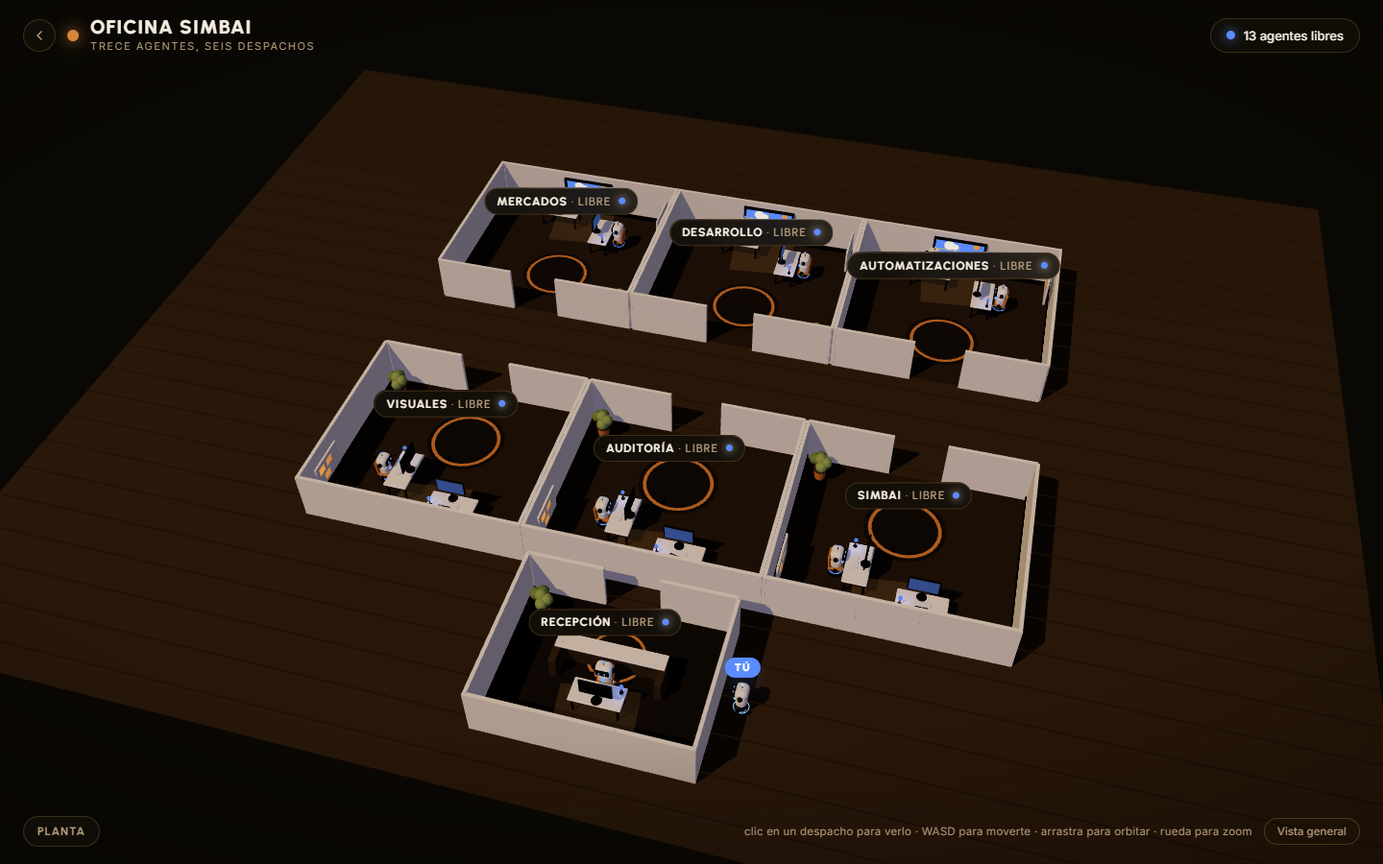
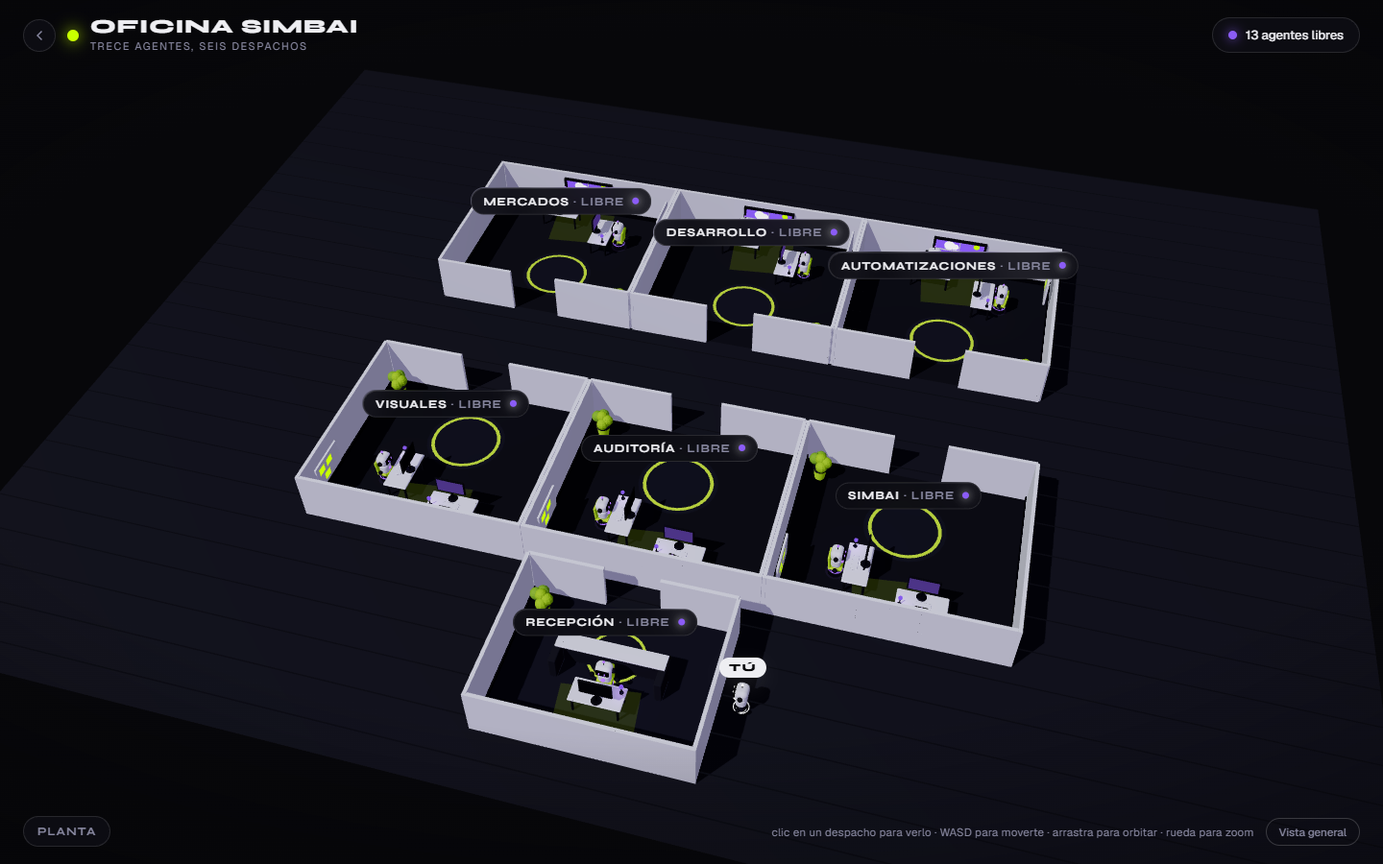
Estetica: verde lima de simbai-web-actual, no el ambar de la web vieja
La identidad de SIMBAI es blanca y verde lima, no el ambar que saque de simbai-web-v2. La referencia buena es Proyectos/simbai-web-actual, donde el lima aparece 80 veces y el violeta solo 4.

- Color: casi negro (#07070a), verde lima de marca (#c8ff00), texto claro (#eeeef2) y violeta (#8b5cf6) de acento. Estados: lima trabajando, violeta libre, gris parado.
- Escena 3D: paredes blancas, suelo y muebles en grises muy oscuros, luz neutra y fria para que el lima destaque en vez de competir con una luz de color.
- Tu personaje va en blanco: el lima es de quien trabaja y el violeta de quien esta libre.
- Tipografia: Syne para titulares y Geist para texto, las de la web actual.
- Sobre lima el texto va en oscuro, nunca claro.

diff --git a/oficina-simbai/oficina.html b/oficina-simbai/oficina.html
@@ -13,7 +13,7 @@
 <link rel="preconnect" href="https://cdn.jsdelivr.net">
 <link rel="preconnect" href="https://fonts.googleapis.com">
 <link rel="preconnect" href="https://fonts.gstatic.com" crossorigin>
-<link href="https://fonts.googleapis.com/css2?family=Urbanist:wght@600;700;800&family=Inter:wght@400;500;600&family=JetBrains+Mono:wght@400;500&display=swap" rel="stylesheet">
+<link href="https://fonts.googleapis.com/css2?family=Syne:wght@700;800&family=Geist:wght@400;500;600&display=swap" rel="stylesheet">
 <script type="importmap">
 { "imports": {
   "three": "https://cdn.jsdelivr.net/npm/three@0.186.1/build/three.module.js",
@@ -21,18 +21,18 @@
 } }
 </script>
 <style>
-/* Identidad SIMBAI, tomada de Proyectos/simbai-web-v2 (la referencia de calidad):
-   negro cálido, ámbar dorado de marca, crema para el texto y azul frío de contraste. */
+/* Identidad SIMBAI, tomada de Proyectos/simbai-web-actual: fondo casi negro,
+   verde lima como color de marca y violeta como acento secundario. */
 :root{
-  --night:#0a0804; --elev:#110e08; --elev2:#1a150d;
-  --cream:#f5ede0; --cream2:#b09878; --cream3:#86795d;
-  --accent:#d4873a; --accent2:#c4721c; --frio:#5b8cff;
-  --grad:linear-gradient(115deg,#e8973f,#c4721c);
-  --marca:#d4873a;
-  --tx:#f5ede0; --mut:#b09878; --line:rgba(212,155,80,.22); --card:rgba(17,14,8,.86);
-  --display:"Urbanist",system-ui,sans-serif; --body:"Inter",system-ui,sans-serif;
-  --mono:"JetBrains Mono",ui-monospace,SFMono-Regular,Menlo,monospace;
-  /* escala de espaciado base 4px, la misma de la web */
+  --night:#07070a; --elev:#0d0d13; --elev2:#131319; --elev3:#1a1a22;
+  --cream:#eeeef2; --cream2:#8888a0; --cream3:#7e7e98;
+  --accent:#c8ff00; --accent2:#a8d800; --accent-dim:rgba(200,255,0,.1);
+  --violeta:#8b5cf6; --violeta-lt:#c4b5fd; --frio:#8b5cf6;
+  --grad:linear-gradient(115deg,#c8ff00,#a8d800);
+  --marca:#c8ff00;
+  --tx:#eeeef2; --mut:#8888a0; --line:rgba(255,255,255,.11); --card:rgba(13,13,19,.88);
+  --display:"Syne",system-ui,sans-serif; --body:"Geist",system-ui,sans-serif;
+  --mono:ui-monospace,"SF Mono","Cascadia Mono",Menlo,Consolas,monospace;
   --s-1:.25rem; --s-2:.5rem; --s-3:.75rem; --s-4:1rem; --s-5:1.5rem; --s-6:2rem;
   --safe-t:env(safe-area-inset-top,0px); --safe-b:env(safe-area-inset-bottom,0px);
 }
@@ -41,18 +41,18 @@ html,body{height:100%;background:var(--night);color:var(--tx);font-family:var(--
 #escena{position:fixed;inset:0}
 #escena canvas{display:block;touch-action:none}
 #etiquetas{position:fixed;inset:0;pointer-events:none;z-index:1}
-.vignette{position:fixed;inset:0;pointer-events:none;z-index:2;background:radial-gradient(120% 90% at 50% 45%,transparent 45%,rgba(6,4,2,.8) 100%)}
+.vignette{position:fixed;inset:0;pointer-events:none;z-index:2;background:radial-gradient(120% 90% at 50% 45%,transparent 45%,rgba(4,4,6,.82) 100%)}
 .card{background:var(--card);backdrop-filter:blur(14px);-webkit-backdrop-filter:blur(14px);border:1px solid var(--line)}
 
 /* rótulo sobre cada despacho: solo el nombre, el estado va en el color del robot */
 .placa{pointer-events:auto;cursor:pointer;white-space:nowrap;font-family:var(--display);font-weight:700;font-size:12px;letter-spacing:.08em;text-transform:uppercase;color:var(--cream);padding:6px 12px;border-radius:999px;transition:border-color .16s}
-.placa:hover,.placa.on{border-color:rgba(212,155,80,.5)}
+.placa:hover,.placa.on{border-color:rgba(255,255,255,.28)}
 .placa b{font-weight:700}
 .placa span{color:var(--mut);font-weight:600}
 .placa i{display:inline-block;width:7px;height:7px;border-radius:50%;background:var(--frio);margin-left:8px;vertical-align:1px;box-shadow:0 0 10px currentColor}
 .placa.activa i{background:var(--marca);box-shadow:0 0 10px var(--marca)}
 .placa.parada i{background:var(--cream3);box-shadow:0 0 10px var(--cream3)}
-.yo{pointer-events:none;font-family:var(--display);font-weight:800;font-size:11px;letter-spacing:.12em;text-transform:uppercase;color:#fff;background:var(--frio);padding:4px 10px;border-radius:999px;box-shadow:0 8px 20px -8px var(--frio)}
+.yo{pointer-events:none;font-family:var(--display);font-weight:800;font-size:11px;letter-spacing:.12em;text-transform:uppercase;color:var(--night);background:var(--cream);padding:4px 10px;border-radius:999px;box-shadow:0 8px 24px -8px rgba(238,238,242,.5)}
 .bocadillo{pointer-events:none;max-width:230px;padding:9px 12px;border-radius:14px;border-bottom-left-radius:4px;background:var(--cream);color:var(--night);font:400 12.5px/1.4 var(--body);white-space:normal;box-shadow:0 12px 30px -12px rgba(0,0,0,.6)}
 
 header{position:fixed;top:calc(var(--safe-t) + 18px);left:24px;right:24px;z-index:5;display:flex;align-items:center;justify-content:space-between;gap:16px;pointer-events:none}
@@ -75,8 +75,8 @@ footer{position:fixed;left:24px;right:24px;bottom:calc(var(--safe-b) + 18px);z-i
 .hint{display:flex;align-items:center;gap:12px;font-size:11.5px;color:var(--mut);letter-spacing:.02em;pointer-events:auto}
 .hint span{transition:opacity .6s}
 .hint.off span{opacity:0}
-.hint button{background:none;border:1px solid rgba(212,155,80,.28);color:var(--cream2);border-radius:999px;padding:6px 13px;font:500 11.5px var(--body);cursor:pointer;white-space:nowrap;flex:none}
-.hint button:hover{color:#1a1206;background:var(--grad);border-color:transparent}
+.hint button{background:none;border:1px solid rgba(255,255,255,.18);color:var(--cream2);border-radius:999px;padding:6px 13px;font:500 11.5px var(--body);cursor:pointer;white-space:nowrap;flex:none}
+.hint button:hover{color:#07070a;background:var(--grad);border-color:transparent}
 
 aside{
   position:fixed; top:calc(var(--safe-t) + 84px); right:24px; width:min(330px,calc(100vw - 48px)); z-index:6;
@@ -87,9 +87,9 @@ aside{
 aside.on{transform:none;opacity:1;pointer-events:auto}
 aside .top{display:flex;align-items:center;gap:10px}
 aside .nm{font-family:var(--display);font-weight:800;font-size:19px;letter-spacing:.02em;line-height:1}
-aside .mod{font:500 10px var(--body);letter-spacing:.06em;text-transform:uppercase;color:var(--mut);background:rgba(212,155,80,.10);padding:3px 8px;border-radius:6px}
+aside .mod{font:500 10px var(--body);letter-spacing:.06em;text-transform:uppercase;color:var(--mut);background:rgba(255,255,255,.055);padding:3px 8px;border-radius:6px}
 aside .cerrar{margin-left:auto;background:none;border:0;color:var(--mut);cursor:pointer;width:28px;height:28px;display:grid;place-items:center;border-radius:50%}
-aside .cerrar:hover{background:rgba(212,155,80,.12);color:var(--cream)}
+aside .cerrar:hover{background:rgba(255,255,255,.08);color:var(--cream)}
 aside .cerrar svg{width:14px;height:14px}
 /* una fila por agente del despacho */
 .puesto{display:flex;gap:10px;padding:12px 0;border-bottom:1px solid var(--line)}
@@ -107,23 +107,23 @@ aside .pie{font:11px/1.7 var(--mono);color:var(--mut);margin-top:12px;padding-to
 .chat .hilo:empty{display:none}
 .chat .m{max-width:88%;padding:9px 12px;border-radius:14px;font-size:12.5px;line-height:1.45;white-space:pre-wrap;word-break:break-word}
 .chat .m.mio{align-self:flex-end;background:var(--accent);color:var(--night);border-bottom-right-radius:5px}
-.chat .m.el{align-self:flex-start;background:rgba(212,155,80,.12);border-bottom-left-radius:5px}
+.chat .m.el{align-self:flex-start;background:rgba(255,255,255,.08);border-bottom-left-radius:5px}
 .chat .m.err{align-self:stretch;background:rgba(255,107,74,.16);border:1px solid rgba(255,107,74,.4);font-size:12px}
 .chat .meta{align-self:flex-start;font:10.5px var(--mono);color:var(--mut);margin-top:-4px}
 .chat .dots::after{content:'…';display:inline-block;width:1.2em;text-align:left;animation:dots 1.2s steps(4,end) infinite}
 @keyframes dots{0%{content:''}25%{content:'.'}50%{content:'..'}75%{content:'...'}}
 .chat .motores{display:flex;gap:6px;margin-top:10px}
-.chat .motores button{flex:1;background:none;border:1px solid rgba(212,155,80,.22);color:var(--mut);border-radius:999px;padding:6px 10px;font:500 11px var(--body);cursor:pointer;white-space:nowrap}
-.chat .motores button.on{background:var(--grad);color:#1a1206;border-color:transparent;font-weight:600}
+.chat .motores button{flex:1;background:none;border:1px solid rgba(255,255,255,.11);color:var(--mut);border-radius:999px;padding:6px 10px;font:500 11px var(--body);cursor:pointer;white-space:nowrap}
+.chat .motores button.on{background:var(--grad);color:#07070a;border-color:transparent;font-weight:600}
 .chat form{display:flex;gap:8px;margin-top:8px;align-items:flex-end}
-.chat textarea{flex:1;resize:none;background:rgba(212,155,80,.10);border:1px solid var(--line);border-radius:14px;color:var(--cream);font:400 13px/1.4 var(--body);padding:9px 12px;outline:none;min-height:38px;max-height:96px}
-.chat textarea:focus{border-color:rgba(212,155,80,.45)}
+.chat textarea{flex:1;resize:none;background:rgba(255,255,255,.055);border:1px solid var(--line);border-radius:14px;color:var(--cream);font:400 13px/1.4 var(--body);padding:9px 12px;outline:none;min-height:38px;max-height:96px}
+.chat textarea:focus{border-color:rgba(255,255,255,.25)}
 .chat textarea::placeholder{color:var(--mut)}
 .chat form button{width:38px;height:38px;border-radius:50%;border:0;background:var(--grad);color:var(--night);cursor:pointer;flex:none;display:grid;place-items:center}
 .chat form button svg{width:16px;height:16px}
 .chat form button:disabled,.chat textarea:disabled{opacity:.5;cursor:default}
 .chat .nota{font-size:10.5px;color:var(--mut);margin-top:8px;line-height:1.5}
-.chat .nota code{display:block;margin:6px 0;padding:7px 9px;border-radius:8px;background:rgba(212,155,80,.10);color:var(--cream);font:10.5px/1.5 var(--mono);user-select:all;word-break:break-all}
+.chat .nota code{display:block;margin:6px 0;padding:7px 9px;border-radius:8px;background:rgba(255,255,255,.055);color:var(--cream);font:10.5px/1.5 var(--mono);user-select:all;word-break:break-all}
 
 .msg{position:fixed;inset:0;z-index:4;display:grid;place-items:center;text-align:center;color:var(--mut);font-size:13.5px;padding:20px;background:var(--night)}
 .msg b{display:block;font-family:var(--display);color:var(--cream);font-size:18px;margin-bottom:6px}
@@ -194,7 +194,7 @@ const CFG = {
   embed: flag('embed', false),
   name: Q.get('name') || 'OFICINA SIMBAI',
   tagline: Q.get('tagline') || 'trece agentes, seis despachos',
-  accent: /^#[0-9a-f]{3,8}$/i.test(Q.get('accent') || '') ? Q.get('accent') : '#d4873a',
+  accent: /^#[0-9a-f]{3,8}$/i.test(Q.get('accent') || '') ? Q.get('accent') : '#c8ff00',
   labels: flag('labels', true),
   // el panel de estados vive aquí por defecto; ?estado= lo cambia y ?estado= vacío lo apaga
   estado: Q.has('estado') ? Q.get('estado') : 'http://localhost:8080/estado.json',
@@ -206,18 +206,18 @@ $('#marca').textContent = CFG.name;
 $('#lema').textContent = CFG.tagline;
 
 /* ── paleta y plantilla de la oficina ───────────────── */
-// Paleta SIMBAI (Proyectos/simbai-web-v2): negro cálido, ámbar dorado y crema.
+// Paleta SIMBAI (Proyectos/simbai-web-actual): casi negro, lima de marca y violeta.
 const PAL = {
-  night:0x0a0804, navy:0x1a150d, navy2:0x241d12, cream:0xf5ede0,
-  coral:0xd4873a, mint:0xd4873a, sky:0x5b8cff, amber:0xe8973f, plum:0x86795d,
-  wood:0x4a3a22, wood2:0x3a2c1a, leaf:0x7d8f4a, leaf2:0x97a95d, white:0xf0e9dd,
+  night:0x07070a, navy:0x1a1a22, navy2:0x232330, cream:0xeeeef2,
+  coral:0xc8ff00, mint:0xc8ff00, sky:0x8b5cf6, amber:0xc8ff00, plum:0x555568,
+  wood:0x26262f, wood2:0x1c1c24, leaf:0x8fbf2a, leaf2:0xa8d800, white:0xeeeef2,
 };
 const MARCA = new THREE.Color(CFG.accent).getHex();
-// trabajando = ámbar de marca; libre = azul frío; parado = crema apagada
+// trabajando = lima de marca; libre = violeta; parado = gris apagado
 const SIT = {
   trabajando: { hex:MARCA, css:CFG.accent, factor:1, etiqueta:'Trabajando' },
-  libre:      { hex:PAL.sky, css:'#5b8cff', factor:.4, etiqueta:'Libre' },
-  parado:     { hex:PAL.plum, css:'#86795d', factor:.45, etiqueta:'Parado' },
+  libre:      { hex:PAL.sky, css:'#8b5cf6', factor:.45, etiqueta:'Libre' },
+  parado:     { hex:PAL.plum, css:'#7e7e98', factor:.4, etiqueta:'Parado' },
 };
 const situacion = s => SIT[s] ? s : 'libre';
 
@@ -700,10 +700,10 @@ function construye(){
   }
   scene.fog = new THREE.Fog(PAL.night, 55, 150); // en móvil la cámara se aleja: con 80 la planta se apagaba
 
-  // luz de tarde: el ámbar de marca domina y el azul frío solo perfila
-  scene.add(new THREE.HemisphereLight(0x8aa4e0, PAL.wood, 0.55));
-  scene.add(new THREE.AmbientLight(0xffe6c4, 0.42));
-  const sol = new THREE.DirectionalLight(0xffd9a0, 1.9);
+  // luz neutra y fría: el lima tiene que destacar, no competir con una luz de color
+  scene.add(new THREE.HemisphereLight(0xb9c6e8, 0x2a2a36, 0.7));
+  scene.add(new THREE.AmbientLight(0xffffff, 0.5));
+  const sol = new THREE.DirectionalLight(0xf2f4ff, 2.0);
   sol.position.set(-7, 14, 9); sol.castShadow = true;
   sol.shadow.mapSize.set(2048, 2048);
   Object.assign(sol.shadow.camera, { left:-largo / 2 - 10, right:largo / 2 + 6, top:prof / 2, bottom:-prof / 2, near:1, far:70 });
@@ -715,8 +715,8 @@ function construye(){
 
 /* ── tu personaje ───────────────────────────────────── */
 const yo = new THREE.Group();
-// tú vas en azul frío: el ámbar es de los agentes y así no te confundes con uno
-const yoRobot = robot(PAL.sky);
+// tú vas en blanco: el lima es de quien trabaja y el violeta de quien está libre
+const yoRobot = robot(PAL.cream);
 yo.add(yoRobot);
 {
   const div = document.createElement('div'); div.className = 'yo'; div.textContent = 'Tú';

diff --git a/packages/web/public/oficina.html b/packages/web/public/oficina.html
@@ -13,7 +13,7 @@
 <link rel="preconnect" href="https://cdn.jsdelivr.net">
 <link rel="preconnect" href="https://fonts.googleapis.com">
 <link rel="preconnect" href="https://fonts.gstatic.com" crossorigin>
-<link href="https://fonts.googleapis.com/css2?family=Urbanist:wght@600;700;800&family=Inter:wght@400;500;600&family=JetBrains+Mono:wght@400;500&display=swap" rel="stylesheet">
+<link href="https://fonts.googleapis.com/css2?family=Syne:wght@700;800&family=Geist:wght@400;500;600&display=swap" rel="stylesheet">
 <script type="importmap">
 { "imports": {
   "three": "https://cdn.jsdelivr.net/npm/three@0.186.1/build/three.module.js",
@@ -21,18 +21,18 @@
 } }
 </script>
 <style>
-/* Identidad SIMBAI, tomada de Proyectos/simbai-web-v2 (la referencia de calidad):
-   negro cálido, ámbar dorado de marca, crema para el texto y azul frío de contraste. */
+/* Identidad SIMBAI, tomada de Proyectos/simbai-web-actual: fondo casi negro,
+   verde lima como color de marca y violeta como acento secundario. */
 :root{
-  --night:#0a0804; --elev:#110e08; --elev2:#1a150d;
-  --cream:#f5ede0; --cream2:#b09878; --cream3:#86795d;
-  --accent:#d4873a; --accent2:#c4721c; --frio:#5b8cff;
-  --grad:linear-gradient(115deg,#e8973f,#c4721c);
-  --marca:#d4873a;
-  --tx:#f5ede0; --mut:#b09878; --line:rgba(212,155,80,.22); --card:rgba(17,14,8,.86);
-  --display:"Urbanist",system-ui,sans-serif; --body:"Inter",system-ui,sans-serif;
-  --mono:"JetBrains Mono",ui-monospace,SFMono-Regular,Menlo,monospace;
-  /* escala de espaciado base 4px, la misma de la web */
+  --night:#07070a; --elev:#0d0d13; --elev2:#131319; --elev3:#1a1a22;
+  --cream:#eeeef2; --cream2:#8888a0; --cream3:#7e7e98;
+  --accent:#c8ff00; --accent2:#a8d800; --accent-dim:rgba(200,255,0,.1);
+  --violeta:#8b5cf6; --violeta-lt:#c4b5fd; --frio:#8b5cf6;
+  --grad:linear-gradient(115deg,#c8ff00,#a8d800);
+  --marca:#c8ff00;
+  --tx:#eeeef2; --mut:#8888a0; --line:rgba(255,255,255,.11); --card:rgba(13,13,19,.88);
+  --display:"Syne",system-ui,sans-serif; --body:"Geist",system-ui,sans-serif;
+  --mono:ui-monospace,"SF Mono","Cascadia Mono",Menlo,Consolas,monospace;
   --s-1:.25rem; --s-2:.5rem; --s-3:.75rem; --s-4:1rem; --s-5:1.5rem; --s-6:2rem;
   --safe-t:env(safe-area-inset-top,0px); --safe-b:env(safe-area-inset-bottom,0px);
 }
@@ -41,18 +41,18 @@ html,body{height:100%;background:var(--night);color:var(--tx);font-family:var(--
 #escena{position:fixed;inset:0}
 #escena canvas{display:block;touch-action:none}
 #etiquetas{position:fixed;inset:0;pointer-events:none;z-index:1}
-.vignette{position:fixed;inset:0;pointer-events:none;z-index:2;background:radial-gradient(120% 90% at 50% 45%,transparent 45%,rgba(6,4,2,.8) 100%)}
+.vignette{position:fixed;inset:0;pointer-events:none;z-index:2;background:radial-gradient(120% 90% at 50% 45%,transparent 45%,rgba(4,4,6,.82) 100%)}
 .card{background:var(--card);backdrop-filter:blur(14px);-webkit-backdrop-filter:blur(14px);border:1px solid var(--line)}
 
 /* rótulo sobre cada despacho: solo el nombre, el estado va en el color del robot */
 .placa{pointer-events:auto;cursor:pointer;white-space:nowrap;font-family:var(--display);font-weight:700;font-size:12px;letter-spacing:.08em;text-transform:uppercase;color:var(--cream);padding:6px 12px;border-radius:999px;transition:border-color .16s}
-.placa:hover,.placa.on{border-color:rgba(212,155,80,.5)}
+.placa:hover,.placa.on{border-color:rgba(255,255,255,.28)}
 .placa b{font-weight:700}
 .placa span{color:var(--mut);font-weight:600}
 .placa i{display:inline-block;width:7px;height:7px;border-radius:50%;background:var(--frio);margin-left:8px;vertical-align:1px;box-shadow:0 0 10px currentColor}
 .placa.activa i{background:var(--marca);box-shadow:0 0 10px var(--marca)}
 .placa.parada i{background:var(--cream3);box-shadow:0 0 10px var(--cream3)}
-.yo{pointer-events:none;font-family:var(--display);font-weight:800;font-size:11px;letter-spacing:.12em;text-transform:uppercase;color:#fff;background:var(--frio);padding:4px 10px;border-radius:999px;box-shadow:0 8px 20px -8px var(--frio)}
+.yo{pointer-events:none;font-family:var(--display);font-weight:800;font-size:11px;letter-spacing:.12em;text-transform:uppercase;color:var(--night);background:var(--cream);padding:4px 10px;border-radius:999px;box-shadow:0 8px 24px -8px rgba(238,238,242,.5)}
 .bocadillo{pointer-events:none;max-width:230px;padding:9px 12px;border-radius:14px;border-bottom-left-radius:4px;background:var(--cream);color:var(--night);font:400 12.5px/1.4 var(--body);white-space:normal;box-shadow:0 12px 30px -12px rgba(0,0,0,.6)}
 
 header{position:fixed;top:calc(var(--safe-t) + 18px);left:24px;right:24px;z-index:5;display:flex;align-items:center;justify-content:space-between;gap:16px;pointer-events:none}
@@ -75,8 +75,8 @@ footer{position:fixed;left:24px;right:24px;bottom:calc(var(--safe-b) + 18px);z-i
 .hint{display:flex;align-items:center;gap:12px;font-size:11.5px;color:var(--mut);letter-spacing:.02em;pointer-events:auto}
 .hint span{transition:opacity .6s}
 .hint.off span{opacity:0}
-.hint button{background:none;border:1px solid rgba(212,155,80,.28);color:var(--cream2);border-radius:999px;padding:6px 13px;font:500 11.5px var(--body);cursor:pointer;white-space:nowrap;flex:none}
-.hint button:hover{color:#1a1206;background:var(--grad);border-color:transparent}
+.hint button{background:none;border:1px solid rgba(255,255,255,.18);color:var(--cream2);border-radius:999px;padding:6px 13px;font:500 11.5px var(--body);cursor:pointer;white-space:nowrap;flex:none}
+.hint button:hover{color:#07070a;background:var(--grad);border-color:transparent}
 
 aside{
   position:fixed; top:calc(var(--safe-t) + 84px); right:24px; width:min(330px,calc(100vw - 48px)); z-index:6;
@@ -87,9 +87,9 @@ aside{
 aside.on{transform:none;opacity:1;pointer-events:auto}
 aside .top{display:flex;align-items:center;gap:10px}
 aside .nm{font-family:var(--display);font-weight:800;font-size:19px;letter-spacing:.02em;line-height:1}
-aside .mod{font:500 10px var(--body);letter-spacing:.06em;text-transform:uppercase;color:var(--mut);background:rgba(212,155,80,.10);padding:3px 8px;border-radius:6px}
+aside .mod{font:500 10px var(--body);letter-spacing:.06em;text-transform:uppercase;color:var(--mut);background:rgba(255,255,255,.055);padding:3px 8px;border-radius:6px}
 aside .cerrar{margin-left:auto;background:none;border:0;color:var(--mut);cursor:pointer;width:28px;height:28px;display:grid;place-items:center;border-radius:50%}
-aside .cerrar:hover{background:rgba(212,155,80,.12);color:var(--cream)}
+aside .cerrar:hover{background:rgba(255,255,255,.08);color:var(--cream)}
 aside .cerrar svg{width:14px;height:14px}
 /* una fila por agente del despacho */
 .puesto{display:flex;gap:10px;padding:12px 0;border-bottom:1px solid var(--line)}
@@ -107,23 +107,23 @@ aside .pie{font:11px/1.7 var(--mono);color:var(--mut);margin-top:12px;padding-to
 .chat .hilo:empty{display:none}
 .chat .m{max-width:88%;padding:9px 12px;border-radius:14px;font-size:12.5px;line-height:1.45;white-space:pre-wrap;word-break:break-word}
 .chat .m.mio{align-self:flex-end;background:var(--accent);color:var(--night);border-bottom-right-radius:5px}
-.chat .m.el{align-self:flex-start;background:rgba(212,155,80,.12);border-bottom-left-radius:5px}
+.chat .m.el{align-self:flex-start;background:rgba(255,255,255,.08);border-bottom-left-radius:5px}
 .chat .m.err{align-self:stretch;background:rgba(255,107,74,.16);border:1px solid rgba(255,107,74,.4);font-size:12px}
 .chat .meta{align-self:flex-start;font:10.5px var(--mono);color:var(--mut);margin-top:-4px}
 .chat .dots::after{content:'…';display:inline-block;width:1.2em;text-align:left;animation:dots 1.2s steps(4,end) infinite}
 @keyframes dots{0%{content:''}25%{content:'.'}50%{content:'..'}75%{content:'...'}}
 .chat .motores{display:flex;gap:6px;margin-top:10px}
-.chat .motores button{flex:1;background:none;border:1px solid rgba(212,155,80,.22);color:var(--mut);border-radius:999px;padding:6px 10px;font:500 11px var(--body);cursor:pointer;white-space:nowrap}
-.chat .motores button.on{background:var(--grad);color:#1a1206;border-color:transparent;font-weight:600}
+.chat .motores button{flex:1;background:none;border:1px solid rgba(255,255,255,.11);color:var(--mut);border-radius:999px;padding:6px 10px;font:500 11px var(--body);cursor:pointer;white-space:nowrap}
+.chat .motores button.on{background:var(--grad);color:#07070a;border-color:transparent;font-weight:600}
 .chat form{display:flex;gap:8px;margin-top:8px;align-items:flex-end}
-.chat textarea{flex:1;resize:none;background:rgba(212,155,80,.10);border:1px solid var(--line);border-radius:14px;color:var(--cream);font:400 13px/1.4 var(--body);padding:9px 12px;outline:none;min-height:38px;max-height:96px}
-.chat textarea:focus{border-color:rgba(212,155,80,.45)}
+.chat textarea{flex:1;resize:none;background:rgba(255,255,255,.055);border:1px solid var(--line);border-radius:14px;color:var(--cream);font:400 13px/1.4 var(--body);padding:9px 12px;outline:none;min-height:38px;max-height:96px}
+.chat textarea:focus{border-color:rgba(255,255,255,.25)}
 .chat textarea::placeholder{color:var(--mut)}
 .chat form button{width:38px;height:38px;border-radius:50%;border:0;background:var(--grad);color:var(--night);cursor:pointer;flex:none;display:grid;place-items:center}
 .chat form button svg{width:16px;height:16px}
 .chat form button:disabled,.chat textarea:disabled{opacity:.5;cursor:default}
 .chat .nota{font-size:10.5px;color:var(--mut);margin-top:8px;line-height:1.5}
-.chat .nota code{display:block;margin:6px 0;padding:7px 9px;border-radius:8px;background:rgba(212,155,80,.10);color:var(--cream);font:10.5px/1.5 var(--mono);user-select:all;word-break:break-all}
+.chat .nota code{display:block;margin:6px 0;padding:7px 9px;border-radius:8px;background:rgba(255,255,255,.055);color:var(--cream);font:10.5px/1.5 var(--mono);user-select:all;word-break:break-all}
 
 .msg{position:fixed;inset:0;z-index:4;display:grid;place-items:center;text-align:center;color:var(--mut);font-size:13.5px;padding:20px;background:var(--night)}
 .msg b{display:block;font-family:var(--display);color:var(--cream);font-size:18px;margin-bottom:6px}
@@ -194,7 +194,7 @@ const CFG = {
   embed: flag('embed', false),
   name: Q.get('name') || 'OFICINA SIMBAI',
   tagline: Q.get('tagline') || 'trece agentes, seis despachos',
-  accent: /^#[0-9a-f]{3,8}$/i.test(Q.get('accent') || '') ? Q.get('accent') : '#d4873a',
+  accent: /^#[0-9a-f]{3,8}$/i.test(Q.get('accent') || '') ? Q.get('accent') : '#c8ff00',
   labels: flag('labels', true),
   // el panel de estados vive aquí por defecto; ?estado= lo cambia y ?estado= vacío lo apaga
   estado: Q.has('estado') ? Q.get('estado') : 'http://localhost:8080/estado.json',
@@ -206,18 +206,18 @@ $('#marca').textContent = CFG.name;
 $('#lema').textContent = CFG.tagline;
 
 /* ── paleta y plantilla de la oficina ───────────────── */
-// Paleta SIMBAI (Proyectos/simbai-web-v2): negro cálido, ámbar dorado y crema.
+// Paleta SIMBAI (Proyectos/simbai-web-actual): casi negro, lima de marca y violeta.
 const PAL = {
-  night:0x0a0804, navy:0x1a150d, navy2:0x241d12, cream:0xf5ede0,
-  coral:0xd4873a, mint:0xd4873a, sky:0x5b8cff, amber:0xe8973f, plum:0x86795d,
-  wood:0x4a3a22, wood2:0x3a2c1a, leaf:0x7d8f4a, leaf2:0x97a95d, white:0xf0e9dd,
+  night:0x07070a, navy:0x1a1a22, navy2:0x232330, cream:0xeeeef2,
+  coral:0xc8ff00, mint:0xc8ff00, sky:0x8b5cf6, amber:0xc8ff00, plum:0x555568,
+  wood:0x26262f, wood2:0x1c1c24, leaf:0x8fbf2a, leaf2:0xa8d800, white:0xeeeef2,
 };
 const MARCA = new THREE.Color(CFG.accent).getHex();
-// trabajando = ámbar de marca; libre = azul frío; parado = crema apagada
+// trabajando = lima de marca; libre = violeta; parado = gris apagado
 const SIT = {
   trabajando: { hex:MARCA, css:CFG.accent, factor:1, etiqueta:'Trabajando' },
-  libre:      { hex:PAL.sky, css:'#5b8cff', factor:.4, etiqueta:'Libre' },
-  parado:     { hex:PAL.plum, css:'#86795d', factor:.45, etiqueta:'Parado' },
+  libre:      { hex:PAL.sky, css:'#8b5cf6', factor:.45, etiqueta:'Libre' },
+  parado:     { hex:PAL.plum, css:'#7e7e98', factor:.4, etiqueta:'Parado' },
 };
 const situacion = s => SIT[s] ? s : 'libre';
 
@@ -700,10 +700,10 @@ function construye(){
   }
   scene.fog = new THREE.Fog(PAL.night, 55, 150); // en móvil la cámara se aleja: con 80 la planta se apagaba
 
-  // luz de tarde: el ámbar de marca domina y el azul frío solo perfila
-  scene.add(new THREE.HemisphereLight(0x8aa4e0, PAL.wood, 0.55));
-  scene.add(new THREE.AmbientLight(0xffe6c4, 0.42));
-  const sol = new THREE.DirectionalLight(0xffd9a0, 1.9);
+  // luz neutra y fría: el lima tiene que destacar, no competir con una luz de color
+  scene.add(new THREE.HemisphereLight(0xb9c6e8, 0x2a2a36, 0.7));
+  scene.add(new THREE.AmbientLight(0xffffff, 0.5));
+  const sol = new THREE.DirectionalLight(0xf2f4ff, 2.0);
   sol.position.set(-7, 14, 9); sol.castShadow = true;
   sol.shadow.mapSize.set(2048, 2048);
   Object.assign(sol.shadow.camera, { left:-largo / 2 - 10, right:largo / 2 + 6, top:prof / 2, bottom:-prof / 2, near:1, far:70 });
@@ -715,8 +715,8 @@ function construye(){
 
 /* ── tu personaje ───────────────────────────────────── */
 const yo = new THREE.Group();
-// tú vas en azul frío: el ámbar es de los agentes y así no te confundes con uno
-const yoRobot = robot(PAL.sky);
+// tú vas en blanco: el lima es de quien trabaja y el violeta de quien está libre
+const yoRobot = robot(PAL.cream);
 yo.add(yoRobot);
 {
   const div = document.createElement('div'); div.className = 'yo'; div.textContent = 'Tú';

diff --git a/oficina-simbai/README.md b/oficina-simbai/README.md
@@ -1,6 +1,6 @@
 # Oficina SIMBAI: trece agentes de IA en una planta 3D
 
-Una planta cartoon con seis despachos de dos puestos y una recepción. Cada agente es un robot flotante cuyo color dice si trabaja, está libre o se ha parado. Tú entras con tu robot azul, te acercas a quien quieras y hablas con la asistenta de recepción o con los agentes reales.
+Una planta cartoon con seis despachos de dos puestos y una recepción. Cada agente es un robot flotante cuyo color dice si trabaja, está libre o se ha parado. Tú entras con tu robot blanco, te acercas a quien quieras y hablas con la asistenta de recepción o con los agentes reales.
 
 ![Planta de la oficina](docs/captura.png)
 
@@ -26,9 +26,9 @@ El color se ve desde la vista general, sin acercarse, en el robot y en la baliza
 
 | Estado | Color | Qué significa |
 |---|---|---|
-| trabajando | ámbar | el agente está ocupado; solo estos se animan |
-| libre | azul frío | disponible |
-| parado | crema apagada | el motor local no responde |
+| trabajando | verde lima | el agente está ocupado; solo estos se animan |
+| libre | violeta | disponible |
+| parado | gris apagado | el motor local no responde |
 
 ## Ejecutar
 
@@ -91,7 +91,7 @@ Un agente que no aparezca se muestra libre. Si el endpoint no responde, la plant
 | `embed` | `0` | HUD compacto para iframe |
 | `name` | `OFICINA SIMBAI` | nombre en la cabecera |
 | `tagline` | `trece agentes, seis despachos` | subtítulo |
-| `accent` | `%23d4873a` | color de marca, también el de "trabajando" |
+| `accent` | `%23c8ff00` | color de marca, también el de "trabajando" |
 | `chat` | `1` (`0` si `embed=1`) | panel de conversación en recepción |
 | `labels` | `1` | rótulos de los despachos |
 
